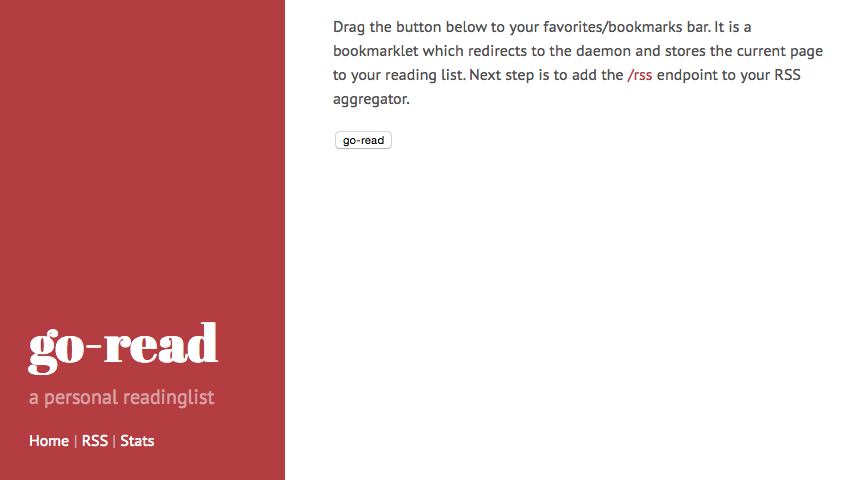
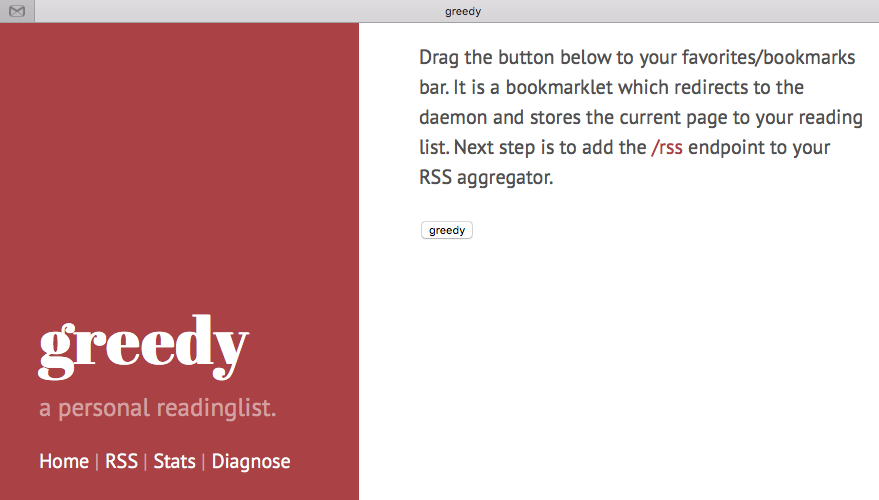
new screenshots

Changed region(s): [[0.0, 0.0, 1.0, 1.0], [0.0307, 0.625, 0.307, 0.8438], [0.4911, 0.4375, 0.5525, 0.5]]

diff --git a/readme.md b/readme.md
@@ -1,28 +1,29 @@
-Greedy
-===========
+# Greedy
 Greedy allows you to run your own collection of `urls to read`. For example: you are reading a webpage and you want to mark it as `read later`, you can use this service to quickly save the page and read it later. From there, the service generates an RSS feed containing all these urls. You can import this RSS feed into your own, favorite RSS client (f.e. [TinyTinyRSS](https://tt-rss.org "TinyTinyRSS")).
 
-Storage
-============
-Greedy uses a local database file (sqlite3) as it's storage. You can specify the location of the database file by setting the `databasefile` environment variable. See section below for more information.
+# Storage
+Greedy uses a local database file (sqlite3) as it's storage. You can specify the location of the database file by setting the `databasefile` environment variable. See environment section below for more information.
 
-Installation instructions
-=========================
+# Installation instructions
+###### I don't have Go installed
 If you don't have a working Go environment, then you can simply download one of the pre-built binaries. For download links, see below. After putting the binary in your path, start the service by running the binary: `./greedy`. By default, it binds to 0.0.0.0:8080, but you can change it's configuration by setting some environment variables which are described below. After starting, the output should be like this:
 
     INFO[10-18|15:48:03] environment vars                         host=0.0.0.0 port=8080 databasefile=articles.bolt
     INFO[10-18|15:48:03] greedy meta info                         builddate=18-October-2015/15:47:55 commithash=9cb5fe13067f2dead95233e36b3b7b9fd1dd2b73
     INFO[10-18|15:48:03] deamon listening                         host=0.0.0.0 port=8080
 
-Now open a browser and point to the `host:port` you have configurated. The greedy homepage should appear. Drag the button to your favorites/bookmarks bar. It is a bookmarklet which redirects to the service and stores the current page to your reading list. Next step is to add the /rss endpoint to your RSS aggregator.
-
-For more information, please don't hesitate to contact me [@rogierlommers](https://twitter.com/rogierlommers).
-
+###### I have Go installed
 If you have Go installed, simply `go get` it:
 
     go get github.com/rogierlommers/greedy
 
 this will download the sources to your `$gopath`, build a binary and puts it in your Go binary directory. You can leave it there or you can put it in a more convenient place.
+
+###### Usage
+Once you have installed and started Greedy, open a browser and point to the `host:port` you have configurated. The greedy homepage should appear. Drag the button to your favorites/bookmarks bar. It is a bookmarklet which redirects to the service and stores the current page to your reading list. Next step is to add the /rss endpoint to your RSS aggregator.
+
+###### Configuration
+You can change the default configuration by changing environment vars. For example, running on port 9090 can be done with: `GREEDY_PORT=9090 ./greedy`.
 
 | environment var     | description               | default           |
 | --------------------|:-------------------------:| ------------------|
@@ -30,12 +31,13 @@ this will download the sources to your `$gopath`, build a binary and puts it in 
 | GREEDY_PORT         | http port                 | 8080              |
 | GREEDY_DATABASEFILE | location of database file | ./articles.sqlite |
 
-Running in Docker container
-===========================
+###### Need help?
+For more information, please don't hesitate to contact me [@rogierlommers](https://twitter.com/rogierlommers).
+
+# Running in Docker container
 Explained here
 
-Releases
-=========================
+# Releases
 | version           | download                                                                                                                         |
 | ------------------|----------------------------------------------------------------------------------------------------------------------------------|
 | 1.0-linux-amd64   | [greedy-1.0-linux-amd64.tar.bz2](https://github.com/rogierlommers/greedy/releases/download/1.0/greedy-1.0-linux-amd64.tar.bz2)   |
@@ -43,8 +45,7 @@ Releases
 | 1.0-darwin-amd64  | [greedy-1.0-darwin-amd64.tar.bz2](https://github.com/rogierlommers/greedy/releases/download/1.0/greedy-1.0-darwin-amd64.tar.bz2) |
 | 1.0-darwin-368    | [greedy-1.0-darwin-386.tar.bz2](https://github.com/rogierlommers/greedy/releases/download/1.0/greedy-1.0-darwin-386.tar.bz2)     |
 
-History
-=======
+# History
 - 1.0
   - uses BOLT as storage engine
   - display articles as RSS
@@ -52,8 +53,7 @@ History
   - single binary containing all (static) files, easy to install
   - multiple platforms: linux and darwin
 
-Todo
-=======
+# Todo
 - [x] use sqlite3, instead of xml file
 - [x] make use of makefile
 - [x] use godep as dependency management
@@ -72,10 +72,7 @@ Todo
 - [ ] create new screenshots
 - [ ] add to [avelino/awesome-go](https://github.com/avelino/awesome-go)
 
-Screenshots
-=======
-204/232 <--> 847/480
-
+# Screenshots
 ![home page](./docs/gui-01.png)
 
 ![stats page](./docs/gui-02.png)
